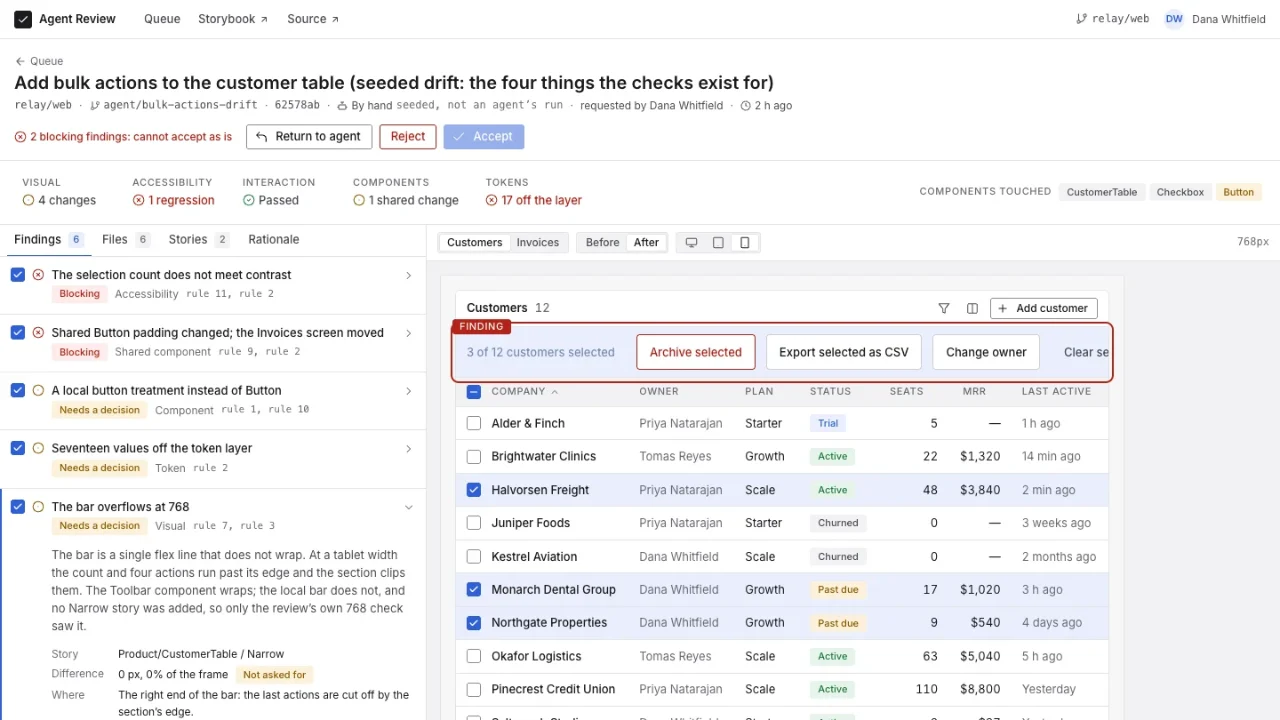
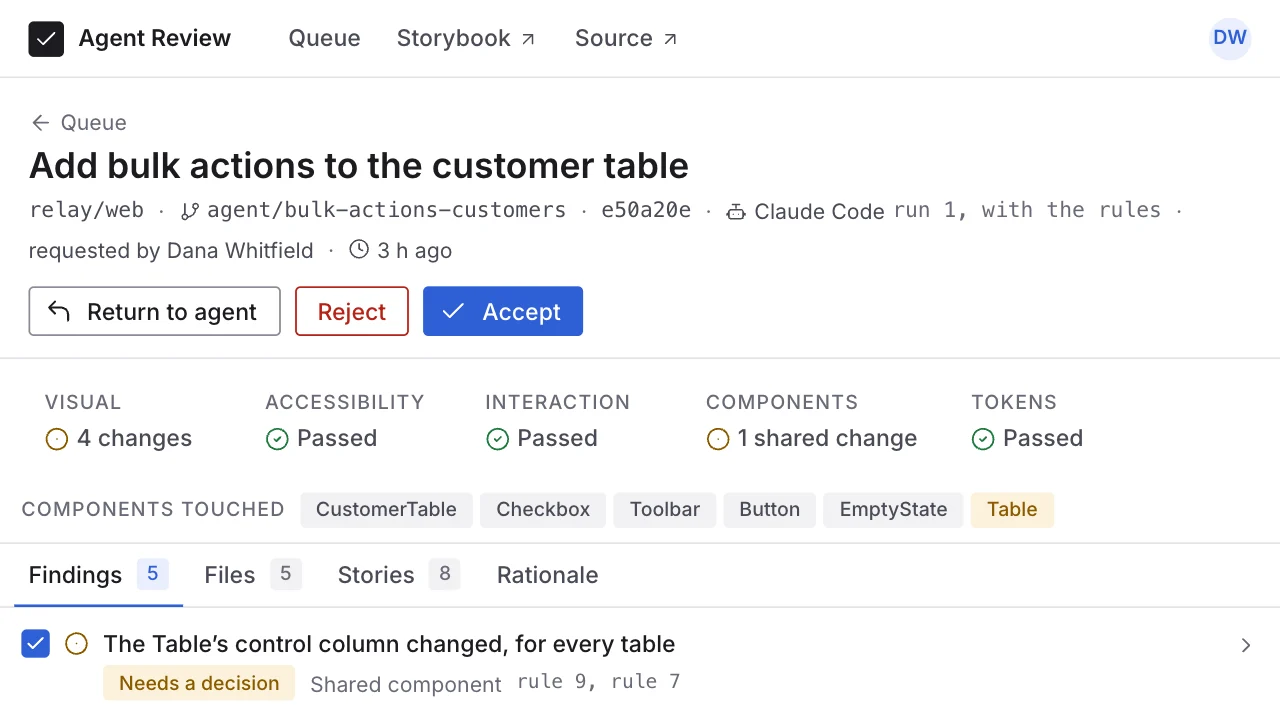
The lab card says what Agent Review is in plain words and shows a screen you can read at card size
The card named the project as a tagline and gave the result as one sentence about judgment moving, and a reader who did not already know what Agent Review was could not tell if it was a tool, a study or a design system. It now opens on one plain sentence (a design system and review tool; an agent builds, a designer reviews) and gives three things to take away, each led by a bold imperative: build the components first, write rules for the edges, keep a designer in the review. They are the case study's own three findings, in its order.

The screenshot in the laptop was the full desktop review at 1440 wide, printed at about 600px, so its type was about 5px. agent-review-card.webp is now the run 1 change screen captured at the product's own 720px tablet layout and scaled by the device pixel ratio to exactly 1280x720: one column, the title, Return to agent / Reject / Accept, the five checks, the components touched and the first finding with its rule. It is the real run, not the seeded drift. scripts/lab-cards.mjs takes it, with no resample step now. The same file is the lab index's third card, so that card changed with it; the share card (og.mjs) still shows the old screen until it is re-run.

The case study's "The system" list leads each item with a bold phrase up to the colon.

The words column is now the taller of the two, so the card is 101px taller at 1280 (446 to 547) and 144px at 1024 (422 to 566), measured and recorded in the stylesheet comment.

diff --git a/index.html b/index.html
@@ -120,7 +120,7 @@
   <link rel="stylesheet" href="color.css?v=8" />
   <link rel="stylesheet" href="shell.css?v=6" />
   <link rel="stylesheet" href="type.css?v=5" />
-  <link rel="stylesheet" href="style.css?v=20261002g" />
+  <link rel="stylesheet" href="style.css?v=20261002h" />
   <link rel="stylesheet" href="site-nav.css?v=20260926a" />
   <link rel="stylesheet" href="app-device.css?v=1" />
   <script src="site-nav.js?v=20260906a" defer></script>
@@ -597,6 +597,16 @@
                laptop the case studies frame their wide captures in
                (.build-laptop), so a screen reads as a screen here too.
 
+               SINCE 2026-10-02 THE SCREEN IS THE CHANGE SCREEN FOR RUN 1 AT
+               720px WIDE, not the full desktop review. The desktop capture
+               (1440 wide, the seeded-drift change, the finding open beside a
+               preview at 768) printed in this laptop at about 600px, or 456
+               at 1024, as a miniature: the type was 5px. The same product at
+               its own tablet layout is one column, so the title, the three
+               decisions, the five checks and the first finding are all type
+               you can read at that size, and it is the real run rather than
+               the seeded one. Scripts/lab-cards.mjs takes it.
+
                The other two pieces stay one quiet line under the card, not a
                grid beside it: the lab index (lab/index.html) is where all
                three get a fuller account. This is still not a case study and
@@ -607,18 +617,35 @@
                cards were, not an anchor around the tile.
 
                SINCE 2026-10-02 the words are on the left and the screen on the
-               right from 1024 up, and the words are cut to the question, the
-               project, the result and the two links, so the column runs about
-               the screen's height: the three checked lines and the tag row
-               came off. The words
-               come first in the markup so a keyboard reader meets them first;
-               under 1024 the screen is moved above them in the stylesheet. -->
+               right from 1024 up. The words come first in the markup so a
+               keyboard reader meets them first; under 1024 the screen is moved
+               above them in the stylesheet.
+
+               THE WORDS ANSWER "WHAT IS THIS" BEFORE THEY ANSWER "WHAT DID IT
+               FIND". The card used to name the project as a tagline ("making a
+               design system executable for coding agents") and give the
+               result as one sentence about judgment moving, and a reader who
+               did not already know what Agent Review was could not tell if it
+               was a tool, a study or a design system. So: the question, one
+               plain sentence for what it is (a design system and a review
+               tool; an agent builds, a designer reviews), and three things
+               worth taking away, each led by a bold imperative so a scanner
+               gets the advice without the sentence. The three are the case
+               study's own findings, in its order: the components mattered
+               more than the rules; the rules mattered at the edges; checks
+               find failure and cannot decide what the product should become.
+               Nothing here claims more than that page does. -->
           <div class="case-card case-card--lab reveal">
             <div class="case-card-body">
               <p class="section-eyebrow case-card-eyebrow">Lab &middot; current exploration</p>
               <h3>What changes when coding agents join the product team?</h3>
-              <p class="case-lab-name">Agent Review: making a design system executable for coding agents</p>
-              <p class="case-desc case-lab-result"><strong>The result:</strong> the agent followed the existing components whether or not it had written rules. Human judgment didn&rsquo;t disappear. It moved.</p>
+              <p class="case-lab-lead"><strong>Agent Review</strong> is the design system and review tool I built to find out: a coding agent builds a feature on it, and a designer reviews what comes back.</p>
+              <p class="case-desc case-lab-intro">What I&rsquo;d tell any design team doing the same:</p>
+              <ul class="build-list case-lab-points">
+                <li><strong>Build the components first.</strong> The agent reused them with or without rules.</li>
+                <li><strong>Write rules for the edges.</strong> Shared changes, empty states, new patterns.</li>
+                <li><strong>Keep a designer in the review.</strong> Checks can&rsquo;t tell a feature from a break.</li>
+              </ul>
               <p class="product-actions">
                 <a class="product-link" href="lab/agent-review.html">Read the case study</a>
                 <a class="product-link product-link-quiet" href="https://adamdhickey-collab.github.io/agent-review/" target="_blank" rel="noopener noreferrer">Open Agent Review<span class="product-link-ext" aria-hidden="true">&#8599;</span><span class="visually-hidden"> (opens in a new tab)</span></a>
@@ -626,7 +653,7 @@
             </div>
             <a class="case-thumb build-laptop" href="lab/agent-review.html" aria-label="Read the Agent Review case study">
               <div class="build-laptop-lid">
-                <img decoding="async" loading="lazy" src="img/lab/agent-review-card.webp?v=3" alt="Agent Review open on a seeded test branch: two blocking findings, a validation line across visual, accessibility, interaction, components and tokens, a list of six findings on the left, and on the right the customer table rendered from the branch with the overflowing selection bar outlined and labelled Finding." width="1280" height="720"/>
+                <img decoding="async" loading="lazy" src="img/lab/agent-review-card.webp?v=4" alt="Agent Review open on the change &ldquo;Add bulk actions to the customer table&rdquo;, built by Claude Code: Return to agent, Reject and Accept buttons; a validation line reading Visual 4 changes, Accessibility passed, Interaction passed, Components 1 shared change, Tokens passed; the components the change touched; and the first finding, &ldquo;The Table&rsquo;s control column changed, for every table&rdquo;, marked Needs a decision under shared component rules 9 and 7." width="1280" height="720"/>
               </div>
             </a>
           </div>

diff --git a/style.css b/style.css
@@ -681,13 +681,18 @@ a.case-thumb { display: block; }
    the laptop sat 24 from the panel's edge on three sides and read as pressed
    against it; the 16 more is the room a picture that wide wants.
 
-   THE COLUMNS CENTRE. The words were cut to the question, the project, the
-   result and two links, which runs the picture's height from 1024 to the
-   1280 where the container stops growing (340 against 287 at 1024, 317
-   against 310 at 1100, 322 against 364 from 1280), and whichever is shorter
-   sits in the middle of the other. They aligned at the top while a list of
-   five checked lines ran the words twice the picture's height, because a
-   picture centred on a list that long reads as floating. */
+   THE COLUMNS CENTRE, and the words are now the taller of the two. They were
+   cut to the question, the project, the result and two links so the column
+   ran the picture's height; the card has since been asked to say what the
+   project is and what a design team should take from it, which is a plain
+   sentence and three short list items more. Measured at 2026-10-02, the
+   words are 465 against a picture of 364 at 1280 and 484 against 287 at
+   1024, where they were 321 and 340, so the picture sits in the middle of a
+   taller column and the card is 101px taller at 1280 (446 to 547) and 144px
+   at 1024 (422 to 566). That is the price of the explanation rather than an
+   accident of it. A list of five checked lines ran the words to twice the
+   picture's height before, which is where this rule stopped being
+   comfortable. */
 .case-card--lab { display: grid; grid-template-columns: minmax(0, 1fr); }
 .case-card--lab .case-thumb { order: -1; }
 .case-card--lab .case-card-body { display: flex; flex-direction: column; }
@@ -702,16 +707,13 @@ a.case-thumb { display: block; }
   }
   .case-card--lab .case-thumb { order: 0; margin-bottom: 0; }
 }
-.case-lab-name {
+.case-lab-lead {
   margin: var(--space-xs) 0 0;
-  font-family: var(--font-sans);
+  max-width: 32rem;
   font-size: var(--text-base);
-  font-weight: 600;
   line-height: var(--leading-body);
   color: var(--color-charcoal);
 }
-.case-lab-name + .case-lab-result { margin-top: var(--space-sm); }
-.case-lab-result { color: var(--color-charcoal); }
 /* The other two lab pieces, one quiet line under the feature. */
 .lab-also {
   margin: var(--space-md) 0 0;
@@ -777,6 +779,14 @@ a.case-thumb { display: block; }
 .case-card--lab .case-thumb .build-laptop-lid { margin-inline: calc(2% / 1.04); }
 .case-card--lab .case-thumb::after { margin-inline: 0; }
 .case-card--lab .case-thumb.is-tilting { box-shadow: none; }
+
+/* The words: a plain account, then three things worth taking away. The list
+   is .build-list's own dash, tightened to this column: its 24px bottom
+   margin is a write-up's, and the intro above it is a lead-in, not a
+   paragraph, so it sits closer to the list than to the line above. */
+.case-card--lab .case-lab-intro { margin-top: var(--space-md); margin-bottom: var(--space-xs); color: var(--color-muted-gray); }
+.case-card--lab .case-lab-points { margin: 0; gap: var(--space-xs); }
+.case-card--lab .case-lab-points li { max-width: 32rem; }
 
 /* ---------- The app's identity: its icon and its name ----------
    The two prototypes are products, and a product is recognised by its icon

diff --git a/lab/agent-review.html b/lab/agent-review.html
@@ -96,7 +96,7 @@
   <link rel="stylesheet" href="../color.css?v=8" />
   <link rel="stylesheet" href="../shell.css?v=6" />
   <link rel="stylesheet" href="../type.css?v=5" />
-  <link rel="stylesheet" href="../style.css?v=20261002g" />
+  <link rel="stylesheet" href="../style.css?v=20261002h" />
   <link rel="stylesheet" href="../site-nav.css?v=20260926a" />
   <link rel="stylesheet" href="../design-psychology.css?v=6" />
   <link rel="stylesheet" href="../read-aloud.css?v=4" />
@@ -405,9 +405,9 @@
         <h2>The system</h2>
         <p>Thirteen components from one token layer in a plain CSS file, with no component kit underneath and no utility framework, because the component model is the point and the tokens should not hide behind utility names.</p>
         <ul class="build-list">
-          <li>Every value a token: spacing on a 4px scale, four type sizes, semantic color, two radii, one shadow, one focus ring, three durations.</li>
-          <li>Every state a story, and not only a Default: a Button has ten, a Table nine, the review&rsquo;s own components sixty-nine. 161 in all.</li>
-          <li>Every story a test: Vitest renders each one in Chromium and runs axe on it, with violations set to fail. A token lint reports any literal written where a token exists. Playwright holds the screens to their baselines and every toolbar to its own box at 768.</li>
+          <li><strong>Every value a token:</strong> spacing on a 4px scale, four type sizes, semantic color, two radii, one shadow, one focus ring, three durations.</li>
+          <li><strong>Every state a story, and not only a Default:</strong> a Button has ten, a Table nine, the review&rsquo;s own components sixty-nine. 161 in all.</li>
+          <li><strong>Every story a test:</strong> Vitest renders each one in Chromium and runs axe on it, with violations set to fail. A token lint reports any literal written where a token exists. Playwright holds the screens to their baselines and every toolbar to its own box at 768.</li>
         </ul>
         <figure class="build-shot">
           <img src="../img/lab/agent-review-storybook.webp?v=2" width="1440" height="900" loading="lazy" decoding="async"

diff --git a/lab/index.html b/lab/index.html
@@ -88,7 +88,7 @@
   <link rel="stylesheet" href="../color.css?v=8" />
   <link rel="stylesheet" href="../shell.css?v=6" />
   <link rel="stylesheet" href="../type.css?v=5" />
-  <link rel="stylesheet" href="../style.css?v=20261002g" />
+  <link rel="stylesheet" href="../style.css?v=20261002h" />
   <link rel="stylesheet" href="../site-nav.css?v=20260926a" />
   <script src="../site-nav.js?v=20260906a" defer></script>
   <!-- The header logo plays a one-shot reveal clip on load and fades out
@@ -238,7 +238,7 @@
         <ol class="writing-list">
           <li class="writing-item">
             <a class="writing-link" href="agent-review.html">
-              <img class="writing-card" src="../img/lab/agent-review-card.webp?v=3" width="1280" height="720" alt="" decoding="async" />
+              <img class="writing-card" src="../img/lab/agent-review-card.webp?v=4" width="1280" height="720" alt="" decoding="async" />
               <div class="writing-text">
                 <h3 class="writing-title">Agent Review: making a design system executable for coding agents</h3>
                 <p class="writing-dek">If agents can write production UI, how does a team make sure they inherit the decisions already made? A React component system with tokens and a Storybook, the rules an agent reads before touching it, a controlled experiment where Claude Code added a feature inside it, the validation that caught where it drifted, and the tool a person uses to review the consequences and send a precise correction back.</p>

diff --git a/prototype/deploy-console.html b/prototype/deploy-console.html
@@ -124,7 +124,7 @@
   <link rel="stylesheet" href="../color.css?v=8" />
   <link rel="stylesheet" href="../shell.css?v=6" />
   <link rel="stylesheet" href="../type.css?v=5" />
-  <link rel="stylesheet" href="../style.css?v=20261002g" />
+  <link rel="stylesheet" href="../style.css?v=20261002h" />
   <link rel="stylesheet" href="../site-nav.css?v=20260926a" />
   <!-- The chapters arrive as they are read. See reveal.css for why this is
        its own pair of files rather than style.css's .reveal. -->

diff --git a/prototype/dispatch-cockpit.html b/prototype/dispatch-cockpit.html
@@ -116,7 +116,7 @@
   <link rel="stylesheet" href="../color.css?v=8" />
   <link rel="stylesheet" href="../shell.css?v=6" />
   <link rel="stylesheet" href="../type.css?v=5" />
-  <link rel="stylesheet" href="../style.css?v=20261002g" />
+  <link rel="stylesheet" href="../style.css?v=20261002h" />
   <link rel="stylesheet" href="../site-nav.css?v=20260926a" />
   <!-- The chapters arrive as they are read. See reveal.css for why this is
        its own pair of files rather than style.css's .reveal. -->

diff --git a/case-study/door-county-found.html b/case-study/door-county-found.html
@@ -96,7 +96,7 @@
   <link rel="stylesheet" href="../color.css?v=8" />
   <link rel="stylesheet" href="../shell.css?v=6" />
   <link rel="stylesheet" href="../type.css?v=5" />
-  <link rel="stylesheet" href="../style.css?v=20261002g" />
+  <link rel="stylesheet" href="../style.css?v=20261002h" />
   <link rel="stylesheet" href="../site-nav.css?v=20260926a" />
   <!-- The chapters arrive as they are read. See reveal.css for why this is
        its own pair of files rather than style.css's .reveal. -->

diff --git a/case-study/this-site.html b/case-study/this-site.html
@@ -94,7 +94,7 @@
   <link rel="stylesheet" href="../color.css?v=8" />
   <link rel="stylesheet" href="../shell.css?v=6" />
   <link rel="stylesheet" href="../type.css?v=5" />
-  <link rel="stylesheet" href="../style.css?v=20261002g" />
+  <link rel="stylesheet" href="../style.css?v=20261002h" />
   <link rel="stylesheet" href="../site-nav.css?v=20260926a" />
   <!-- The chapters arrive as they are read. See reveal.css for why this is
        its own pair of files rather than style.css's .reveal. -->

diff --git a/case-study/lucy-learns.html b/case-study/lucy-learns.html
@@ -97,7 +97,7 @@
   <link rel="stylesheet" href="../color.css?v=8" />
   <link rel="stylesheet" href="../shell.css?v=6" />
   <link rel="stylesheet" href="../type.css?v=5" />
-  <link rel="stylesheet" href="../style.css?v=20261002g" />
+  <link rel="stylesheet" href="../style.css?v=20261002h" />
   <link rel="stylesheet" href="../design-psychology.css?v=6" />
   <link rel="stylesheet" href="../site-nav.css?v=20260926a" />
   <!-- The chapters arrive as they are read. See reveal.css for why this is

diff --git a/writing/index.html b/writing/index.html
@@ -106,7 +106,7 @@
   <link rel="stylesheet" href="../color.css?v=8" />
   <link rel="stylesheet" href="../shell.css?v=6" />
   <link rel="stylesheet" href="../type.css?v=5" />
-  <link rel="stylesheet" href="../style.css?v=20261002g" />
+  <link rel="stylesheet" href="../style.css?v=20261002h" />
   <link rel="stylesheet" href="../site-nav.css?v=20260926a" />
   <script src="../site-nav.js?v=20260906a" defer></script>
   <!-- The header logo plays a one-shot reveal clip on load and fades out

diff --git a/writing/designing-for-the-moment-the-workflow-breaks.html b/writing/designing-for-the-moment-the-workflow-breaks.html
@@ -108,7 +108,7 @@
   <link rel="stylesheet" href="../color.css?v=8" />
   <link rel="stylesheet" href="../shell.css?v=6" />
   <link rel="stylesheet" href="../type.css?v=5" />
-  <link rel="stylesheet" href="../style.css?v=20261002g" />
+  <link rel="stylesheet" href="../style.css?v=20261002h" />
   <link rel="stylesheet" href="../design-psychology.css?v=6" />
   <link rel="stylesheet" href="../site-nav.css?v=20260926a" />
   <link rel="stylesheet" href="../read-aloud.css?v=4" />

diff --git a/writing/enterprise-ai-should-help-people-decide-not-just-answer.html b/writing/enterprise-ai-should-help-people-decide-not-just-answer.html
@@ -108,7 +108,7 @@
   <link rel="stylesheet" href="../color.css?v=8" />
   <link rel="stylesheet" href="../shell.css?v=6" />
   <link rel="stylesheet" href="../type.css?v=5" />
-  <link rel="stylesheet" href="../style.css?v=20261002g" />
+  <link rel="stylesheet" href="../style.css?v=20261002h" />
   <link rel="stylesheet" href="../design-psychology.css?v=6" />
   <link rel="stylesheet" href="../site-nav.css?v=20260926a" />
   <link rel="stylesheet" href="../read-aloud.css?v=4" />
